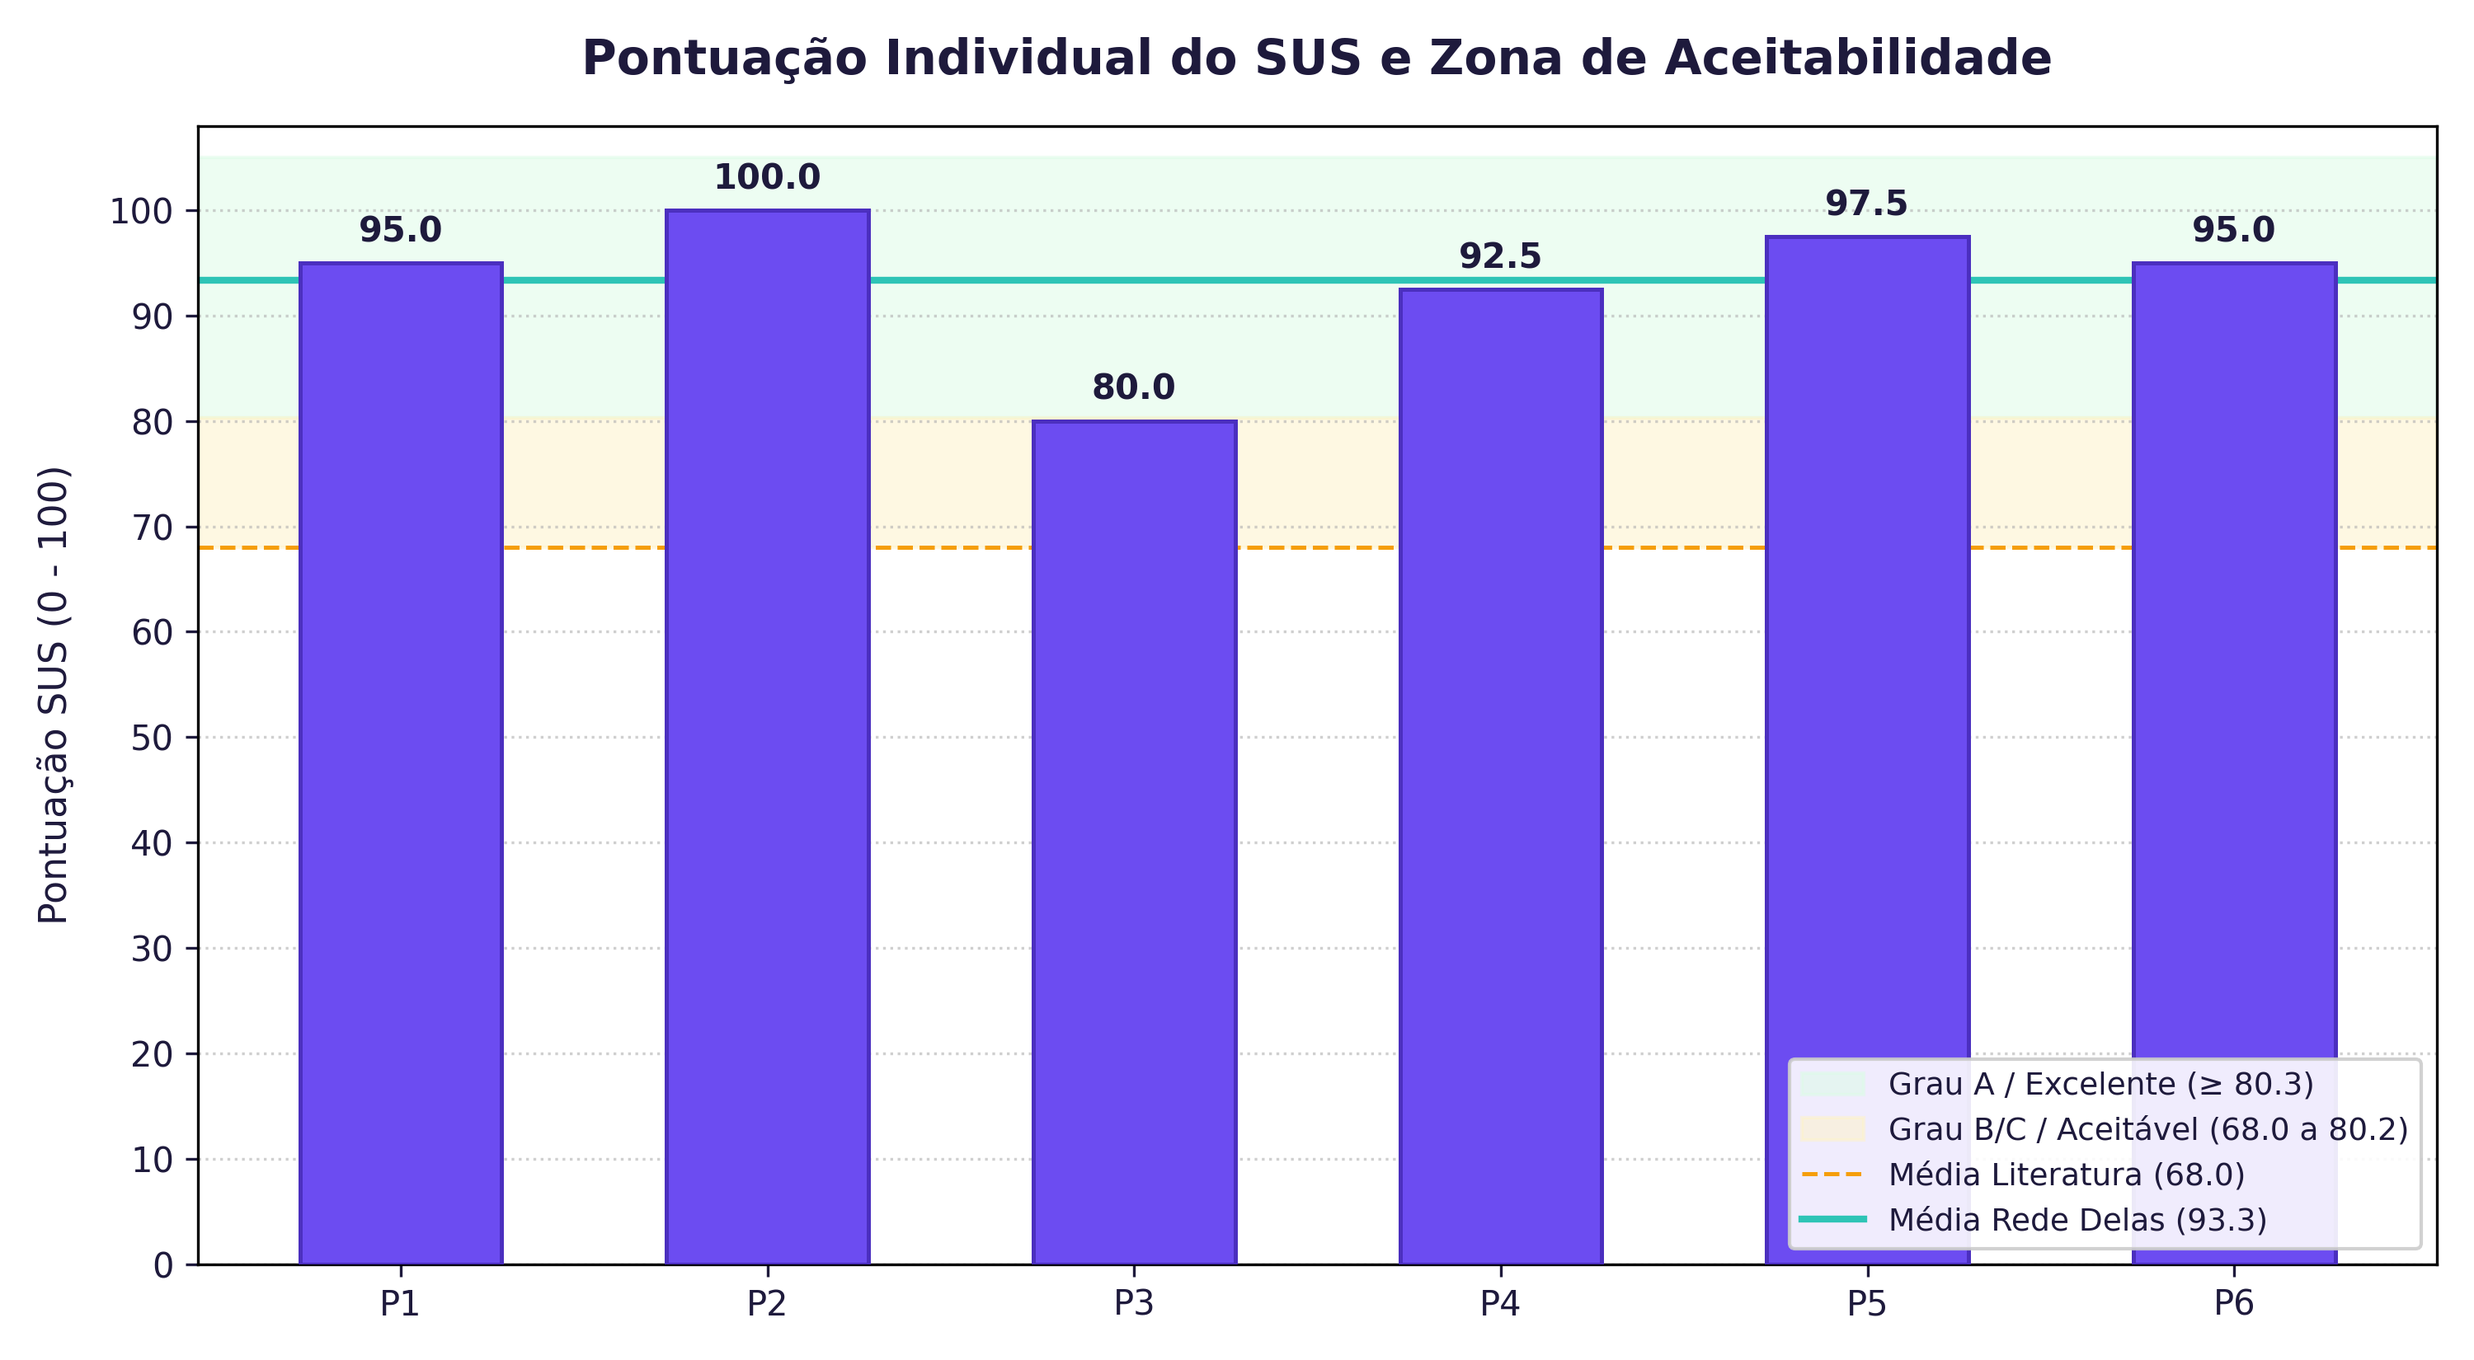
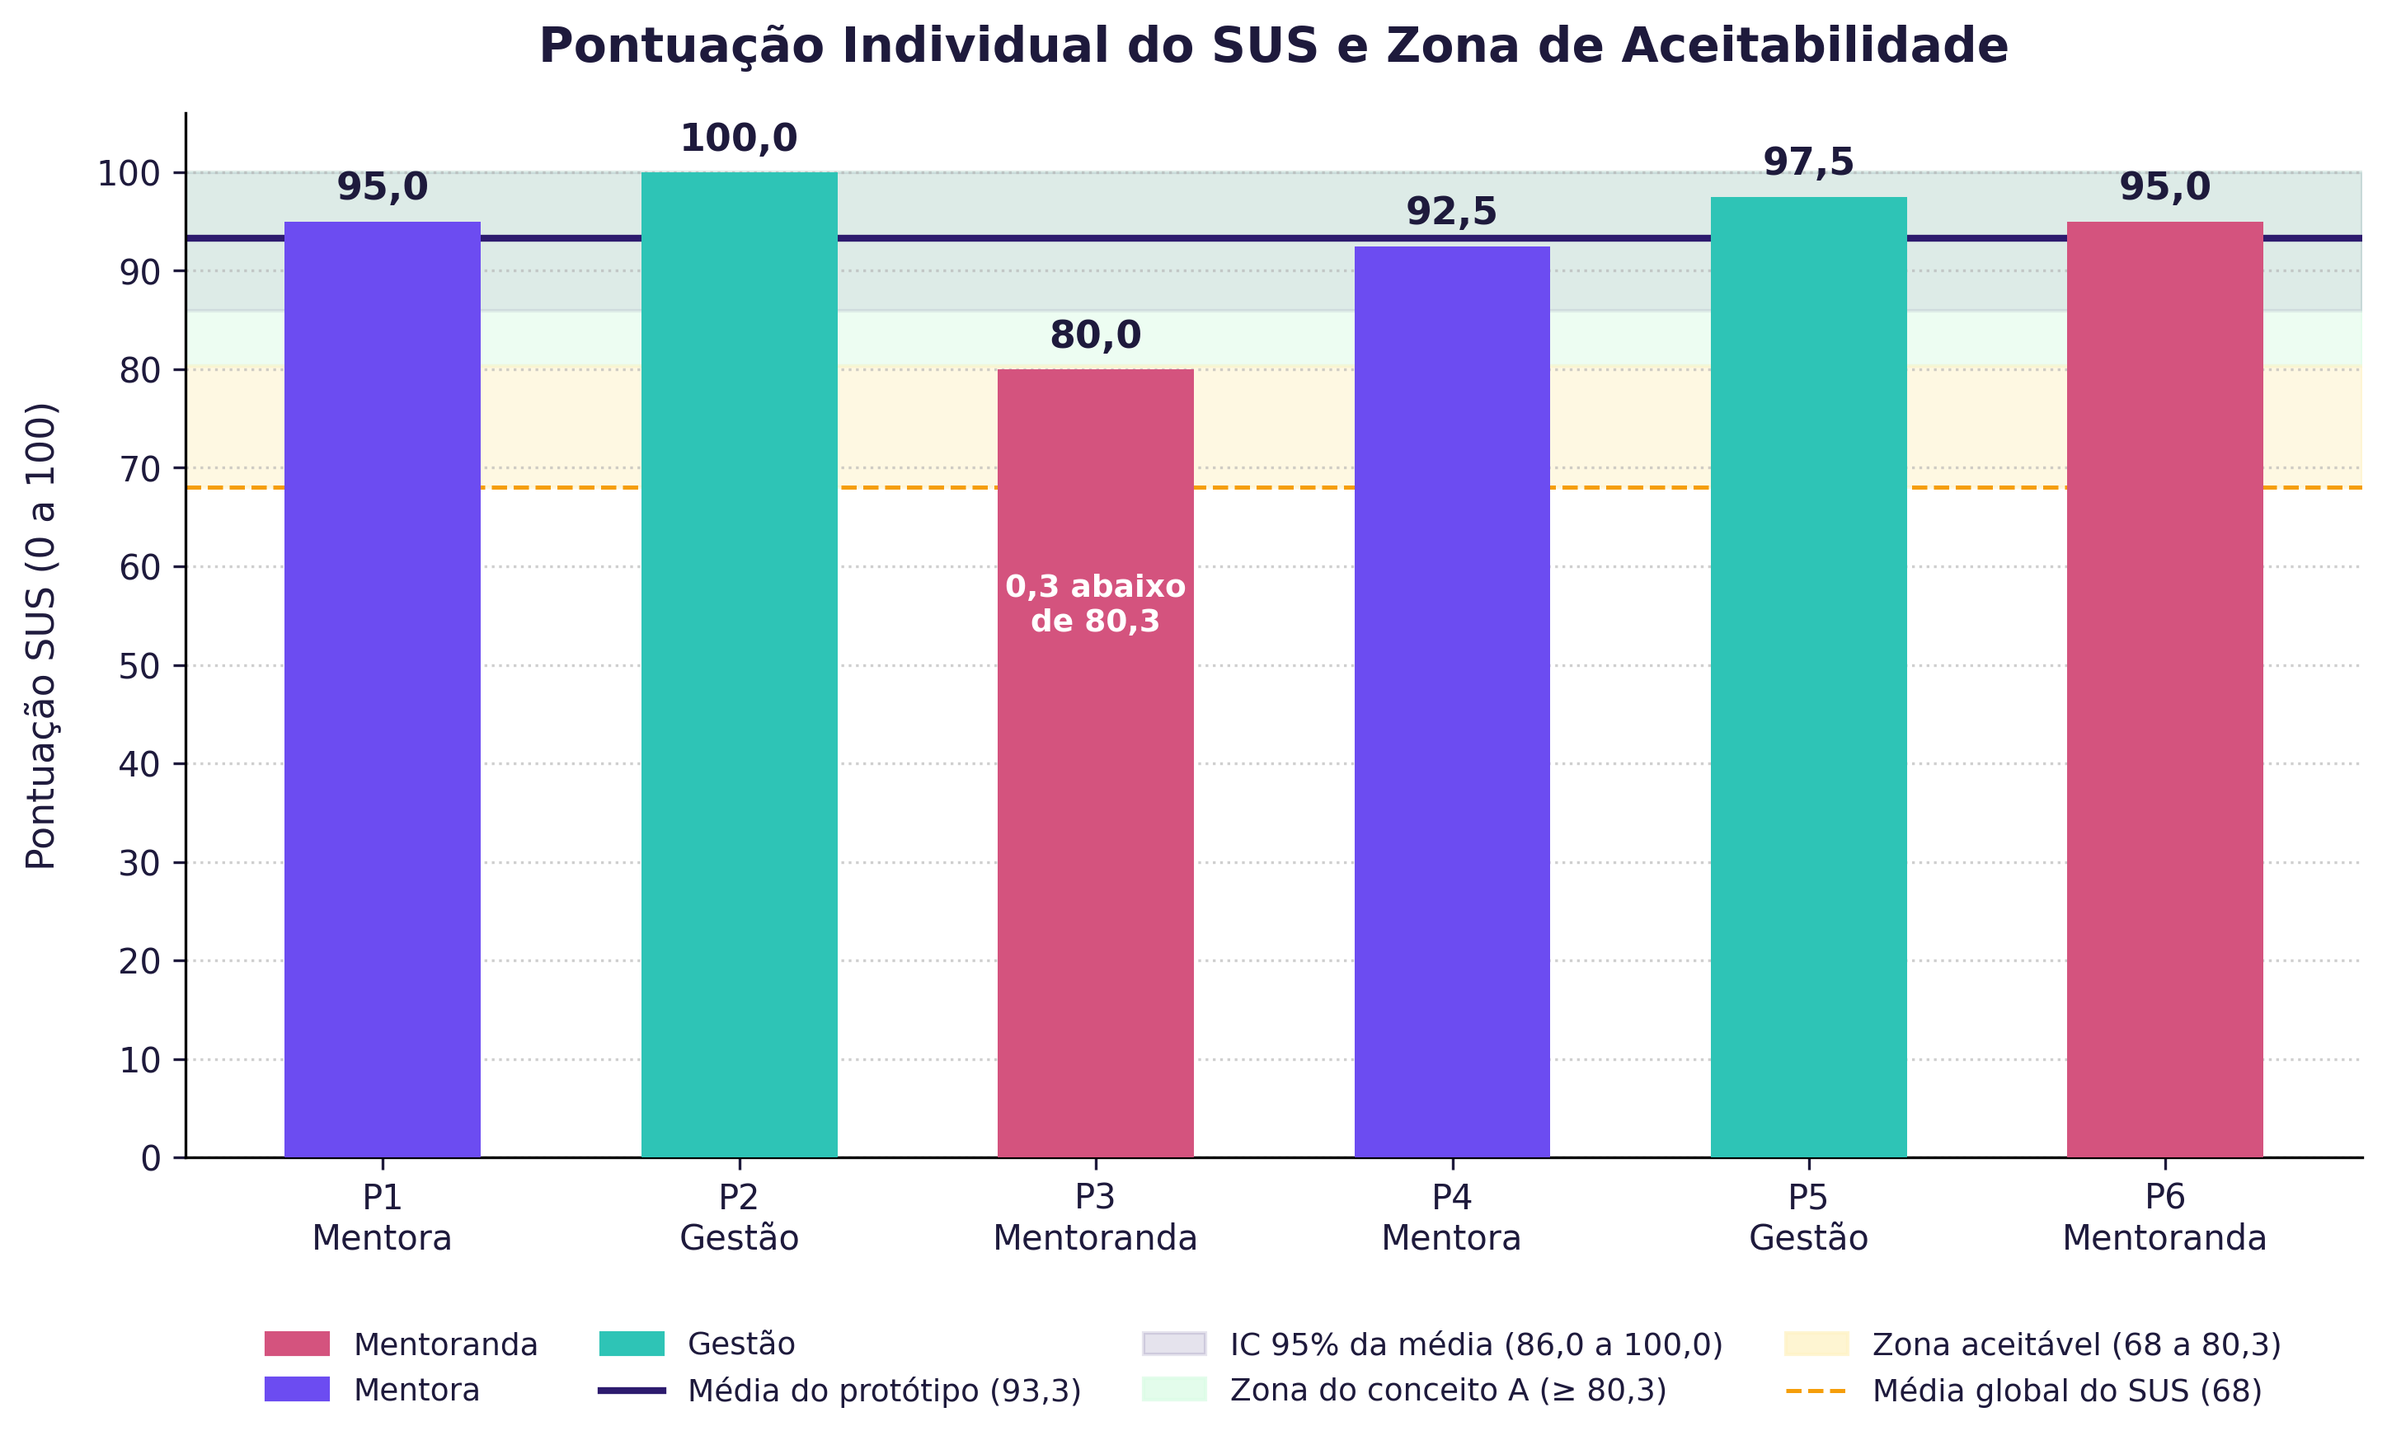
atualiza script do SUS com cálculo automatizado e cores por perfil

diff --git a/results/scripts/gerar_graficos_tcc.py b/results/scripts/gerar_graficos_tcc.py
@@ -1,6 +1,8 @@
 import os
 import matplotlib.pyplot as plt
 import numpy as np
+from matplotlib.lines import Line2D
+from matplotlib.patches import Patch
 
 # Cria o diretório de destino na raiz do repositório
 output_dir = os.path.join("results", "figures")
@@ -9,74 +11,129 @@ os.makedirs(output_dir, exist_ok=True)
 # Tipografia e cores padrão
 plt.rcParams['font.sans-serif'] = 'DejaVu Sans'
 plt.rcParams['font.family'] = 'sans-serif'
-plt.rcParams['text.color'] = '#2E2E2E'
-plt.rcParams['axes.labelcolor'] = '#2E2E2E'
-plt.rcParams['xtick.color'] = '#2E2E2E'
-plt.rcParams['ytick.color'] = '#2E2E2E'
+plt.rcParams['text.color'] = '#1E1A3C' # Text/Primário do Design System
+plt.rcParams['axes.labelcolor'] = '#1E1A3C'
+plt.rcParams['xtick.color'] = '#1E1A3C'
+plt.rcParams['ytick.color'] = '#1E1A3C'
+
+# AJUSTE v2: opções simples (True/False)
+MOSTRAR_TITULO = True            # False se o título ficar só na legenda do TCC
+GERAR_BARRAS_ALTERNATIVA = True  # gera também a Figura 3 (alternativa ao radar)
+
+def virgula(x, casas=1):
+    """Número com vírgula decimal (padrão do texto em português)."""
+    return f"{x:.{casas}f}".replace('.', ',')
+
+# ==============================================================================
+# DADOS: respostas brutas do SUS (1 a 5). Somente códigos, sem nomes.
+# AJUSTE v2: as notas e as médias por questão são CALCULADAS daqui (antes eram digitadas,
+# o que permitiu o erro do Q5 = 4,83; o correto é 4,67).
+# ==============================================================================
+participantes = ['P1', 'P2', 'P3', 'P4', 'P5', 'P6']
+perfis = ['Mentora', 'Gestão', 'Mentoranda', 'Mentora', 'Gestão', 'Mentoranda']
+cores_perfil = {'Mentoranda': '#D4537E', 'Mentora': '#6C4CF1', 'Gestão': '#2EC4B6'}  # Style Guide
+
+respostas = np.array([
+    [5, 1, 5, 1, 4, 1, 4, 1, 5, 1],   # P1
+    [5, 1, 5, 1, 5, 1, 5, 1, 5, 1],   # P2
+    [5, 1, 5, 5, 5, 5, 5, 1, 5, 1],   # P3
+    [5, 1, 4, 1, 5, 1, 4, 1, 4, 1],   # P4
+    [5, 1, 5, 1, 5, 1, 4, 1, 5, 1],   # P5
+    [5, 1, 5, 1, 4, 2, 5, 1, 5, 1],   # P6
+])
+
+# Contribuição de cada item (0 a 4): ímpares = resposta - 1; pares = 5 - resposta (Brooke, 1996)
+contribuicao = np.where(np.arange(10) % 2 == 0, respostas - 1, 5 - respostas)
+scores = contribuicao.sum(axis=1) * 2.5
+media_sus = np.mean(scores)  # 93.33
+dp_sus = np.std(scores, ddof=1)
+t_crit = 2.5706              # t de Student, 95% bilateral, 5 graus de liberdade (n = 6)
+ic_inf = media_sus - t_crit * dp_sus / np.sqrt(len(scores))
+ic_sup = min(100, media_sus + t_crit * dp_sus / np.sqrt(len(scores)))  # limitado a 100 (máximo da escala)
+contrib_media = contribuicao.mean(axis=0)
+
+# Conferência com as notas já usadas no texto (evita erro de digitação)
+assert list(scores) == [95.0, 100.0, 80.0, 92.5, 97.5, 95.0], "notas diferentes das conferidas"
 
 # ==============================================================================
 # FIGURA 1: Gráfico de Barras SUS Individual vs. Escala Bangor
 # ==============================================================================
-participantes = [
-    'P1 (Geovana)', 
-    'P2 (Josiane)', 
-    'P3 (Amabili)', 
-    'P4 (Beatriz)', 
-    'P5 (Sabrina)', 
-    'P6 (Milena)'
-]
-scores = [95.0, 100.0, 80.0, 92.5, 97.5, 95.0]
-media_sus = np.mean(scores)  # 93.33
+fig, ax = plt.subplots(figsize=(10, 6), dpi=300)
 
-fig, ax = plt.subplots(figsize=(10, 5.5), dpi=300)
+# Zonas de referência (mantidas). AJUSTE v2: vão só até 100, o máximo da escala
+ax.axhspan(80.3, 100, color='#DCFCE7', alpha=0.5, zorder=0)   # Estado/Fundo Sucesso
+ax.axhspan(68.0, 80.3, color='#FEF3C7', alpha=0.5, zorder=0)  # Estado/Fundo Neutro
+ax.axhline(68.0, color='#F59E0B', linestyle='--', linewidth=1.2)  # Estado/Atenção
+# AJUSTE v2: faixa do intervalo de confiança de 95% da média
+ax.axhspan(ic_inf, ic_sup, color='#2D1B6E', alpha=0.08, zorder=1)
+# AJUSTE v2: média em roxo-noite (o turquesa agora identifica o perfil Gestão)
+ax.axhline(media_sus, color='#2D1B6E', linestyle='-', linewidth=2, zorder=2)
 
-# Zonas de Aceitabilidade (Bangor et al., 2008/2009)
-ax.axhspan(80.3, 105, color='#D4EDDA', alpha=0.5, label='Grau A / Excelente (≥ 80.3)')
-ax.axhspan(68.0, 80.3, color='#FFF3CD', alpha=0.5, label='Grau B/C / Aceitável (68.0 a 80.2)')
-ax.axhline(68.0, color='#E0A800', linestyle='--', linewidth=1.2, label='Média Literatura (68.0)')
-ax.axhline(media_sus, color='#D9534F', linestyle='-', linewidth=2, label=f'Média Rede Delas ({media_sus:.1f})')
-
-# Barras
-barras = ax.bar(participantes, scores, color='#F39C5A', width=0.55, edgecolor='#E67E22', linewidth=1.2, zorder=3)
+# Barras. AJUSTE v2: uma cor por perfil
+barras = ax.bar(participantes, scores, color=[cores_perfil[p] for p in perfis], width=0.55, zorder=3)
 
 for barra in barras:
     altura = barra.get_height()
-    ax.annotate(f'{altura:.1f}',
+    ax.annotate(virgula(altura),
                 xy=(barra.get_x() + barra.get_width() / 2, altura),
                 xytext=(0, 4),
                 textcoords="offset points",
-                ha='center', va='bottom', fontsize=10, fontweight='bold', color='#2E2E2E')
+                ha='center', va='bottom', fontsize=11, fontweight='bold', color='#1E1A3C')
 
-ax.set_title('Pontuação Individual do SUS e Zona de Aceitabilidade', fontsize=14, pad=15, fontweight='bold')
-ax.set_ylabel('Pontuação SUS (0 - 100)', fontsize=11, labelpad=10)
-ax.set_ylim(0, 108)
+# AJUSTE v2: indica quem fica abaixo do corte de 80,3 (P3 = 80,0)
+for i, v in enumerate(scores):
+    if v < 80.3:
+        ax.text(i, v * 0.70, f"{virgula(80.3 - v)} abaixo\nde 80,3", ha='center', va='center',
+                fontsize=9, color='white', fontweight='bold', zorder=4)
+
+if MOSTRAR_TITULO:
+    ax.set_title('Pontuação Individual do SUS e Zona de Aceitabilidade', fontsize=14, pad=15, fontweight='bold')
+ax.set_ylabel('Pontuação SUS (0 a 100)', fontsize=11, labelpad=10)
+ax.set_xticks(range(len(participantes)))
+ax.set_xticklabels([f"{c}\n{p}" for c, p in zip(participantes, perfis)], fontsize=10)  # AJUSTE v2: perfil no eixo
+ax.set_ylim(0, 106)
 ax.set_yticks(np.arange(0, 101, 10))
 ax.grid(axis='y', linestyle=':', alpha=0.6, zorder=0)
-ax.legend(loc='lower right', frameon=True, facecolor='white', framealpha=0.9, fontsize=9)
+for lado in ('top', 'right'):
+    ax.spines[lado].set_visible(False)
+
+# AJUSTE v2: legenda ABAIXO do gráfico (antes cobria as barras de P5 e P6) e rótulos corrigidos
+legenda = [Patch(color=cores_perfil[k], label=k) for k in cores_perfil] + [
+    Line2D([0], [0], color='#2D1B6E', lw=2, label=f'Média do protótipo ({virgula(media_sus)})'),
+    Patch(color='#2D1B6E', alpha=0.12, label=f'IC 95% da média ({virgula(ic_inf)} a {virgula(ic_sup)})'),
+    Patch(color='#DCFCE7', alpha=0.8, label='Zona do conceito A (≥ 80,3)'),
+    Patch(color='#FEF3C7', alpha=0.8, label='Zona aceitável (68 a 80,3)'),
+    Line2D([0], [0], color='#F59E0B', ls='--', lw=1.2, label='Média global do SUS (68)'),  # antes: "Média Literatura"
+]
+ax.legend(handles=legenda, loc='upper center', bbox_to_anchor=(0.5, -0.14), ncol=4, frameon=False, fontsize=9)
 
 plt.tight_layout()
 caminho_fig1 = os.path.join(output_dir, 'grafico_sus_individual.png')
-plt.savefig(caminho_fig1, dpi=300)
+plt.savefig(caminho_fig1, dpi=300, bbox_inches='tight')
+plt.savefig(caminho_fig1.replace('.png', '.pdf'), bbox_inches='tight')  # AJUSTE v2: versão vetorial
 plt.close()
 print(f"Figura 1 salva: {caminho_fig1}")
 
 # ==============================================================================
 # FIGURA 2: Gráfico Radar por Questão do SUS
+# AJUSTE v2: o radar passa a mostrar a CONTRIBUIÇÃO (0 a 4) e não a média bruta (1 a 5).
+# Motivo: na média bruta, itens positivos ficam perto de 5 e negativos perto de 1, e a "estrela"
+# é só efeito dessa alternância. Na contribuição, quanto mais longe do centro, melhor, em todos os eixos.
 # ==============================================================================
 labels = [
-    'Q1. Frequência\nde uso',
+    'Q1. Usaria com\nfrequência',
     'Q2. Complexidade\ndesnecessária (*)',
-    'Q3. Facilidade\nde uso',
-    'Q4. Suporte\ntécnico (*)',
-    'Q5. Integração\ndas funções',
-    'Q6. Inconsistência\npercebida (*)',
+    'Q3. Fácil\nde usar',
+    'Q4. Precisaria de\najuda técnica (*)',          # antes: "Suporte técnico"
+    'Q5. Funções\nbem integradas',
+    'Q6. Muita\ninconsistência (*)',
     'Q7. Aprendizado\nrápido',
     'Q8. Muito\ncomplicado (*)',
     'Q9. Confiança\nno uso',
-    'Q10. Necessidade\nde pré-treino (*)'
+    'Q10. Aprender muito\nantes de usar (*)'         # antes: "Necessidade de pré-treino"
 ]
 
-medias = [5.0, 1.0, 4.83, 1.67, 4.83, 1.83, 4.5, 1.0, 4.83, 1.0]
+medias = list(contrib_media)  # [4.00, 4.00, 3.83, 3.33, 3.67, 3.17, 3.50, 4.00, 3.83, 4.00]
 
 num_vars = len(labels)
 angulos = np.linspace(0, 2 * np.pi, num_vars, endpoint=False).tolist()
@@ -87,19 +144,64 @@ fig, ax = plt.subplots(figsize=(8, 8), subplot_kw=dict(polar=True), dpi=300)
 ax.set_theta_offset(np.pi / 2)
 ax.set_theta_direction(-1)
 
-plt.xticks(angulos, labels, color='#2E2E2E', size=9, weight='bold')
+plt.xticks(angulos, labels, color='#1E1A3C', size=9, weight='bold') # Text/Primário
+ax.tick_params(axis='x', pad=14)                                      # AJUSTE v2: afasta os rótulos do gráfico
 ax.set_rscale('linear')
-plt.yticks([1, 2, 3, 4, 5], ["1", "2", "3", "4", "5"], color="#7F8C8D", size=9)
-plt.ylim(0, 5.3)
+plt.yticks([1, 2, 3, 4], ["1", "2", "3", "4"], color="#8B7EB8", size=9) # Text/Muted
+plt.ylim(0, 4.4)
+ax.set_rlabel_position(18)  # AJUSTE v2: números do eixo entre dois eixos (não colam em Q2)
 
-ax.plot(angulos_radar, medias_radar, color='#F39C5A', linewidth=2, linestyle='solid')
-ax.fill(angulos_radar, medias_radar, color='#F39C5A', alpha=0.35)
+ax.plot(angulos_radar, medias_radar, color='#6C4CF1', linewidth=2, linestyle='solid') # Roxo/Primário
+ax.fill(angulos_radar, medias_radar, color='#6C4CF1', alpha=0.35) # Roxo/Primário translúcido
+for ang, v in zip(angulos, medias):  # AJUSTE v2: valor em cada vértice
+    ax.text(ang, v - 0.38, virgula(v, 2), ha='center', va='center', fontsize=8.5, fontweight='bold', color='#1E1A3C')
 
-ax.set_title('Médias do SUS por Questão (Escala Likert 1-5)\n(*) Questões com polaridade negativa', 
-             size=13, weight='bold', pad=25)
+if MOSTRAR_TITULO:
+    ax.set_title('Contribuição média de cada afirmação do SUS (0 a 4)\n(*) afirmação negativa, já invertida: quanto maior, melhor',
+                 size=13, weight='bold', pad=40)
 
 plt.tight_layout()
 caminho_fig2 = os.path.join(output_dir, 'grafico_sus_radar.png')
-plt.savefig(caminho_fig2, dpi=300)
+plt.savefig(caminho_fig2, dpi=300, bbox_inches='tight')
+plt.savefig(caminho_fig2.replace('.png', '.pdf'), bbox_inches='tight')
 plt.close()
 print(f"Figura 2 salva: {caminho_fig2}")
+
+# ==============================================================================
+# FIGURA 3 (OPCIONAL): mesma informação da Figura 2 em barras horizontais, mais fácil de ler valor a valor
+# ==============================================================================
+if GERAR_BARRAS_ALTERNATIVA:
+    itens = ["Usaria o sistema com frequência (+)", "Sistema desnecessariamente complexo (−)", "Fácil de usar (+)",
+             "Precisaria de ajuda técnica (−)", "Funções bem integradas (+)", "Muita inconsistência (−)",
+             "Maioria aprenderia rapidamente (+)", "Muito complicado de usar (−)", "Senti-me confiante (+)",
+             "Precisei aprender muito antes de usar (−)"]
+    fig, ax = plt.subplots(figsize=(10, 6), dpi=300)
+    y = np.arange(10)[::-1]
+    cores = ['#6C4CF1' if i % 2 == 0 else '#2EC4B6' for i in range(10)]
+    ax.barh(y, contrib_media, color=cores, height=0.6, zorder=3)
+    for yy, v in zip(y, contrib_media):
+        ax.text(v + 0.04, yy, virgula(v, 2), va='center', fontsize=10, fontweight='bold')
+    ax.set_yticks(y)
+    ax.set_yticklabels([f"Q{i + 1}  {t}" for i, t in enumerate(itens)], fontsize=9.5)
+    ax.set_xlim(0, 4.4)
+    ax.set_xticks(range(0, 5))
+    ax.set_xlabel('Contribuição média à pontuação (0 a 4; 4 = melhor resultado possível)', fontsize=10.5)
+    ax.grid(axis='x', linestyle=':', alpha=0.6, zorder=0)
+    for lado in ('top', 'right'):
+        ax.spines[lado].set_visible(False)
+    ax.legend(handles=[Patch(color='#6C4CF1', label='Afirmação positiva (+): resposta − 1'),
+                       Patch(color='#2EC4B6', label='Afirmação negativa (−): 5 − resposta')],
+              loc='upper center', bbox_to_anchor=(0.5, -0.13), ncol=2, frameon=False, fontsize=9)
+    plt.tight_layout()
+    caminho_fig3 = os.path.join(output_dir, 'grafico_sus_itens_barras.png')
+    plt.savefig(caminho_fig3, dpi=300, bbox_inches='tight')
+    plt.savefig(caminho_fig3.replace('.png', '.pdf'), bbox_inches='tight')
+    plt.close()
+    print(f"Figura 3 (opcional) salva: {caminho_fig3}")
+
+# ==============================================================================
+# RESUMO NO TERMINAL (números usados no texto do TCC)
+# ==============================================================================
+print(f"Notas: {[virgula(v) for v in scores]}")
+print(f"Média {virgula(media_sus, 2)} | DP {virgula(dp_sus, 2)} | IC95% [{virgula(ic_inf)}; {virgula(ic_sup)}]")
+print(f"Contribuição por questão: {[virgula(v, 2) for v in contrib_media]}")
